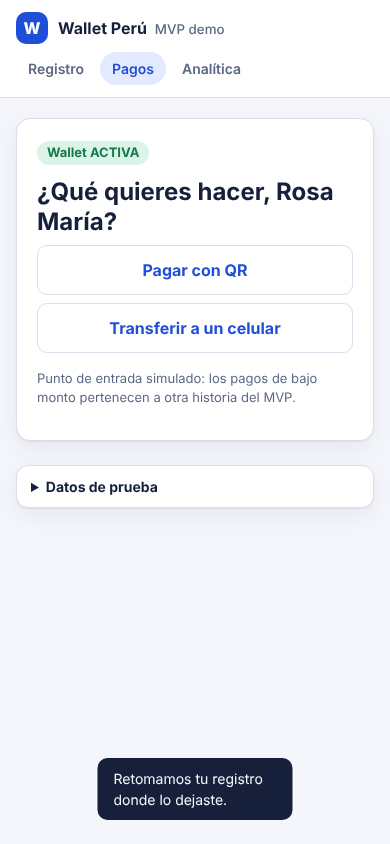
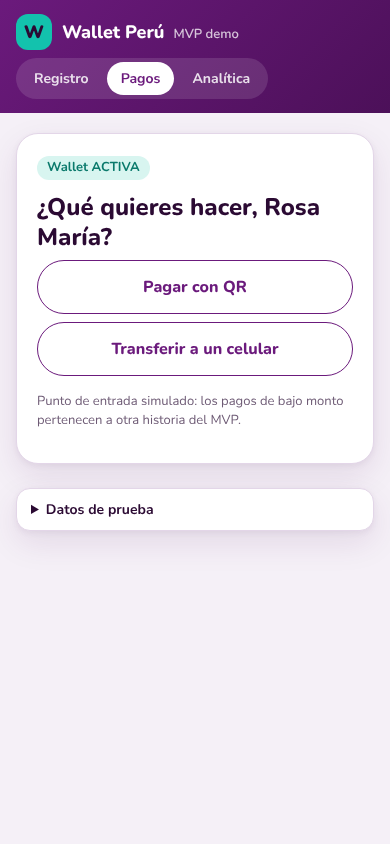
Estilo de billetera móvil morado y equipo en la pantalla inicial
Paleta morada con acento turquesa, cabecera con degradado, esquinas
redondeadas, botones tipo píldora y tipografía Nunito, en modo claro y
oscuro. La pantalla inicial muestra una portada y la tarjeta del equipo
con sus códigos; el README también lista al equipo. Capturas actualizadas.

Incluye .error-campo[hidden] { display: none } (el mismo cambio de #55)
para que la nueva pantalla no muestre iconos de error vacíos.

Claude-Session: https://claude.ai/code/session_01Lq79jjTiTKoQJiYycj9tza

diff --git a/frontend/styles.css b/frontend/styles.css
@@ -1,37 +1,51 @@
 :root {
-  --bg: #f4f6fb;
+  /* Estilo de billetera móvil peruana: morado intenso, acento turquesa y esquinas redondeadas. */
+  --brand: #6b1a7c;
+  --brand-strong: #4c1059;
+  --brand-ink: #ffffff;
+  --accent: #13c2ad;
+  --accent-strong: #0ea896;
+  --accent-ink: #2b0a33;
+  --bg: #f5f0f7;
   --surface: #ffffff;
-  --surface-2: #eef1f8;
-  --text: #16203a;
-  --muted: #5b6784;
-  --border: #d9deea;
-  --primary: #1f4fd8;
-  --primary-ink: #ffffff;
-  --primary-soft: #e3eaff;
-  --ok: #137a4b;
-  --ok-soft: #dcf3e7;
+  --surface-2: #efe6f2;
+  --text: #2b0a33;
+  --muted: #6e5b75;
+  --border: #e3d6e8;
+  --primary: var(--brand);
+  --primary-ink: var(--brand-ink);
+  --primary-soft: #f1e3f5;
+  --ok: #0b7a6c;
+  --ok-soft: #d8f5f0;
   --warn: #9a5b00;
   --warn-soft: #fff1d6;
   --error: #b42318;
   --error-soft: #fde7e5;
-  --radius: 14px;
-  --shadow: 0 1px 2px rgba(16, 24, 40, .06), 0 8px 24px rgba(16, 24, 40, .06);
+  --radius: 22px;
+  --radius-sm: 14px;
+  --shadow: 0 2px 6px rgba(75, 16, 89, .06), 0 12px 32px rgba(75, 16, 89, .10);
   color-scheme: light;
 }
 
 @media (prefers-color-scheme: dark) {
   :root:not([data-theme="light"]) {
-    --bg: #0e1424;
-    --surface: #161e33;
-    --surface-2: #1d2740;
-    --text: #e8ecf6;
-    --muted: #9aa6c3;
-    --border: #2b3654;
-    --primary: #7d9cff;
-    --primary-ink: #0b1020;
-    --primary-soft: #23315c;
-    --ok: #5fd39a;
-    --ok-soft: #133826;
+    --brand: #4a1257;
+    --brand-strong: #320b3c;
+    --brand-ink: #ffffff;
+    --accent: #2fe0c9;
+    --accent-strong: #22c7b2;
+    --accent-ink: #1a0620;
+    --bg: #1a0d20;
+    --surface: #26152e;
+    --surface-2: #321d3b;
+    --text: #f5ecf8;
+    --muted: #bba7c4;
+    --border: #43294e;
+    --primary: #d39be3;
+    --primary-ink: #1a0620;
+    --primary-soft: #3d2149;
+    --ok: #5fe0c9;
+    --ok-soft: #123a35;
     --warn: #f3b64b;
     --warn-soft: #3a2a0c;
     --error: #ff8a80;
@@ -47,26 +61,27 @@ body {
   margin: 0;
   background: var(--bg);
   color: var(--text);
-  font: 16px/1.5 system-ui, -apple-system, "Segoe UI", Roboto, sans-serif;
+  font: 16px/1.5 "Nunito", system-ui, -apple-system, "Segoe UI", Roboto, sans-serif;
 }
 
 a { color: var(--primary); }
 
 .topbar {
   display: flex; flex-wrap: wrap; gap: 8px 16px; align-items: center; justify-content: space-between;
-  padding: 12px 16px; background: var(--surface); border-bottom: 1px solid var(--border);
+  padding: 14px 16px; background: linear-gradient(135deg, var(--brand) 0%, var(--brand-strong) 100%);
+  color: var(--brand-ink);
 }
-.brand { display: flex; align-items: center; gap: 10px; color: var(--text); text-decoration: none; font-weight: 700; }
-.brand small { font-weight: 500; color: var(--muted); margin-left: 4px; }
+.brand { display: flex; align-items: center; gap: 10px; color: var(--brand-ink); text-decoration: none; font-weight: 800; font-size: 18px; }
+.brand small { font-weight: 600; color: rgba(255, 255, 255, .75); margin-left: 4px; font-size: 13px; }
 .brand-mark {
-  display: grid; place-items: center; width: 32px; height: 32px; border-radius: 10px;
-  background: var(--primary); color: var(--primary-ink); font-weight: 800;
+  display: grid; place-items: center; width: 36px; height: 36px; border-radius: 12px;
+  background: var(--accent); color: var(--accent-ink); font-weight: 900;
 }
-.topbar nav { display: flex; gap: 4px; }
+.topbar nav { display: flex; gap: 4px; background: rgba(255, 255, 255, .12); padding: 4px; border-radius: 999px; }
 .topbar nav a {
-  padding: 6px 12px; border-radius: 999px; text-decoration: none; color: var(--muted); font-weight: 600; font-size: 14px;
+  padding: 6px 14px; border-radius: 999px; text-decoration: none; color: rgba(255, 255, 255, .85); font-weight: 700; font-size: 14px;
 }
-.topbar nav a[aria-current="page"] { background: var(--primary-soft); color: var(--primary); }
+.topbar nav a[aria-current="page"] { background: #ffffff; color: var(--brand); }
 
 main { max-width: 480px; margin: 0 auto; padding: 20px 16px 24px; outline: none; }
 main.ancho { max-width: 1040px; }
@@ -77,7 +92,7 @@ main.ancho { max-width: 1040px; }
 }
 .card + .card { margin-top: 16px; }
 
-h1 { font-size: 24px; line-height: 1.25; margin: 0 0 8px; }
+h1 { font-size: 24px; line-height: 1.25; margin: 0 0 8px; font-weight: 800; }
 h2 { font-size: 18px; margin: 0 0 12px; }
 p { margin: 0 0 12px; }
 .muted { color: var(--muted); }
@@ -88,7 +103,7 @@ p { margin: 0 0 12px; }
 .progreso-cabecera { display: flex; justify-content: space-between; align-items: baseline; gap: 8px; font-size: 14px; }
 .progreso-cabecera strong { font-size: 15px; }
 .barra { height: 8px; background: var(--surface-2); border-radius: 999px; overflow: hidden; margin: 8px 0 12px; }
-.barra > span { display: block; height: 100%; background: var(--primary); border-radius: inherit; transition: width .3s ease; }
+.barra > span { display: block; height: 100%; background: var(--accent); border-radius: inherit; transition: width .3s ease; }
 .pasos { list-style: none; padding: 0; margin: 0; display: grid; grid-template-columns: repeat(5, 1fr); gap: 6px; }
 .pasos li { font-size: 11px; line-height: 1.3; color: var(--muted); text-align: center; }
 .pasos li::before {
@@ -96,7 +111,7 @@ p { margin: 0 0 12px; }
   width: 26px; height: 26px; border-radius: 50%; border: 2px solid var(--border);
   font-weight: 700; font-size: 12px; background: var(--surface);
 }
-.pasos li[data-estado="COMPLETADO"]::before { content: "✓"; background: var(--ok); border-color: var(--ok); color: #fff; }
+.pasos li[data-estado="COMPLETADO"]::before { content: "✓"; background: var(--accent); border-color: var(--accent); color: var(--accent-ink); }
 .pasos li[data-estado="ACTUAL"] { color: var(--text); font-weight: 700; }
 .pasos li[data-estado="ACTUAL"]::before { border-color: var(--primary); color: var(--primary); }
 .pasos li[data-estado="FALLIDO"]::before { content: "!"; background: var(--error); border-color: var(--error); color: #fff; }
@@ -106,32 +121,35 @@ p { margin: 0 0 12px; }
 .campo label { display: block; font-weight: 600; margin-bottom: 6px; }
 .campo .ayuda { font-size: 13px; color: var(--muted); margin-top: 4px; }
 input[type="text"], input[type="tel"], input[type="date"], input[type="password"], select {
-  width: 100%; padding: 12px 14px; font: inherit; color: var(--text); background: var(--surface);
-  border: 1.5px solid var(--border); border-radius: 10px;
+  width: 100%; padding: 13px 16px; font: inherit; color: var(--text); background: var(--surface);
+  border: 1.5px solid var(--border); border-radius: var(--radius-sm);
 }
 input:focus-visible, select:focus-visible, button:focus-visible { outline: 3px solid var(--primary-soft); border-color: var(--primary); }
 .campo.con-error input, .campo.con-error select { border-color: var(--error); }
 .error-campo { color: var(--error); font-size: 14px; margin-top: 6px; display: flex; gap: 6px; }
 .error-campo::before { content: "⚠"; }
-.check { display: flex; gap: 10px; align-items: flex-start; padding: 12px; border: 1.5px solid var(--border); border-radius: 10px; }
-.check input { width: 20px; height: 20px; margin-top: 2px; flex: none; }
+.error-campo[hidden] { display: none; }
+.check { display: flex; gap: 10px; align-items: flex-start; padding: 12px; border: 1.5px solid var(--border); border-radius: var(--radius-sm); }
+.check input { width: 20px; height: 20px; margin-top: 2px; flex: none; accent-color: var(--brand); }
 .campo.con-error .check { border-color: var(--error); }
 .fila { display: flex; gap: 8px; }
 .fila > * { flex: 1; }
 
-.alerta { padding: 12px 14px; border-radius: 10px; font-size: 14px; margin-bottom: 16px; }
+.alerta { padding: 12px 14px; border-radius: var(--radius-sm); font-size: 14px; margin-bottom: 16px; }
 .alerta-error { background: var(--error-soft); color: var(--error); }
 .alerta-info { background: var(--primary-soft); color: var(--text); }
 .alerta-ok { background: var(--ok-soft); color: var(--ok); }
 
 .btn {
   display: inline-flex; justify-content: center; align-items: center; gap: 8px;
-  padding: 12px 18px; font: inherit; font-weight: 700; border-radius: 10px; border: 1.5px solid transparent; cursor: pointer;
-  text-decoration: none;
+  padding: 14px 20px; font: inherit; font-weight: 800; border-radius: 999px; border: 1.5px solid transparent; cursor: pointer;
+  text-decoration: none; transition: background .15s ease, transform .1s ease;
 }
-.btn-primario { background: var(--primary); color: var(--primary-ink); width: 100%; }
+.btn:active { transform: scale(.98); }
+.btn-primario { background: var(--accent); color: var(--accent-ink); width: 100%; font-size: 17px; }
+.btn-primario:hover { background: var(--accent-strong); }
 .btn-primario[disabled] { opacity: .6; cursor: progress; }
-.btn-secundario { background: var(--surface); color: var(--primary); border-color: var(--border); }
+.btn-secundario { background: var(--surface); color: var(--primary); border-color: var(--primary); }
 .btn-ghost { background: transparent; color: var(--muted); padding: 8px 10px; font-weight: 600; }
 .acciones { display: flex; flex-direction: column; gap: 8px; margin-top: 8px; }
 
@@ -158,7 +176,7 @@ th { color: var(--muted); font-weight: 600; font-size: 13px; }
 .embudo { display: grid; gap: 8px; }
 .embudo-fila { display: grid; grid-template-columns: 150px 1fr 60px; gap: 8px; align-items: center; font-size: 14px; }
 .embudo-barra { height: 14px; background: var(--surface-2); border-radius: 4px; overflow: hidden; }
-.embudo-barra > span { display: block; height: 100%; background: var(--primary); border-radius: 4px; }
+.embudo-barra > span { display: block; height: 100%; background: var(--accent); border-radius: 4px; }
 .grid-2 { display: grid; grid-template-columns: repeat(auto-fit, minmax(320px, 1fr)); gap: 16px; }
 .grid-2 .card + .card { margin-top: 0; }
 .eventos { list-style: none; padding: 0; margin: 0; font-size: 13px; max-height: 320px; overflow: auto; }
@@ -170,7 +188,7 @@ th { color: var(--muted); font-weight: 600; font-size: 13px; }
 /* ── Panel demo y toast ───────────────────────────── */
 .demo-panel {
   max-width: 448px; margin: 0 auto 32px;
-  background: var(--surface); border: 1px solid var(--border); border-radius: 12px; box-shadow: var(--shadow);
+  background: var(--surface); border: 1px solid var(--border); border-radius: var(--radius-sm); box-shadow: var(--shadow);
   padding: 10px 14px; font-size: 14px;
 }
 .demo-panel summary { cursor: pointer; font-weight: 700; }
@@ -185,3 +203,24 @@ th { color: var(--muted); font-weight: 600; font-size: 13px; }
   .embudo-fila { grid-template-columns: 110px 1fr 48px; }
   .demo-panel { margin: 0 16px 32px; }
 }
+
+/* ── Bienvenida: portada y equipo ────────────────── */
+.portada {
+  background: linear-gradient(160deg, var(--brand) 0%, var(--brand-strong) 100%);
+  color: var(--brand-ink); border-radius: var(--radius); padding: 28px 22px; margin-bottom: 16px;
+  box-shadow: var(--shadow); position: relative; overflow: hidden;
+}
+.portada::after {
+  content: ""; position: absolute; width: 150px; height: 150px; right: -55px; bottom: -75px;
+  border-radius: 50%; background: var(--accent); opacity: .35; z-index: 0;
+}
+.portada h1 { font-size: 28px; position: relative; z-index: 1; padding-right: 8px; }
+.portada p { color: rgba(255, 255, 255, .85); position: relative; z-index: 1; margin: 0; }
+.equipo ul { list-style: none; padding: 0; margin: 0; display: grid; gap: 10px; }
+.equipo li { display: flex; align-items: center; gap: 12px; }
+.avatar {
+  flex: none; display: grid; place-items: center; width: 40px; height: 40px; border-radius: 50%;
+  background: var(--primary-soft); color: var(--primary); font-weight: 800; font-size: 14px;
+}
+.equipo .nombre { font-weight: 700; }
+.equipo .codigo { color: var(--muted); font-size: 13px; font-variant-numeric: tabular-nums; }

diff --git a/frontend/app.js b/frontend/app.js
@@ -148,11 +148,38 @@ function iniciarCronometro(ob) {
   if (!fin) cronometro = setInterval(pintar, 1000);
 }
 
+const EQUIPO = [
+  ["Frank Laura", "T64645"],
+  ["Hernán Chau", "U20223"],
+  ["César Valdiviezo", "T14495"],
+  ["Raúl Aguirre", "T27136"],
+  ["Freddy Liendo", "T14972"],
+  ["Sebastian Barrios", "T51306"],
+];
+
+const iniciales = (nombre) => nombre.split(/\s+/).map((p) => p[0]).slice(0, 2).join("").toUpperCase();
+
+function tarjetaEquipo() {
+  return `
+    <section class="card equipo" aria-labelledby="titulo-equipo">
+      <h2 id="titulo-equipo">Equipo</h2>
+      <ul>
+        ${EQUIPO.map(([nombre, codigo]) => `
+          <li>
+            <span class="avatar" aria-hidden="true">${esc(iniciales(nombre))}</span>
+            <span><span class="nombre">${esc(nombre)}</span><br><span class="codigo">${esc(codigo)}</span></span>
+          </li>`).join("")}
+      </ul>
+    </section>`;
+}
+
 function vistaBienvenida(error) {
   $app.innerHTML = `
-    <div class="card">
+    <section class="portada">
       <h1>Abre tu wallet en 3 minutos</h1>
-      <p class="muted">Paga con QR y envía dinero a cualquier celular. Solo necesitas tu DNI y tu celular.</p>
+      <p>Paga con QR y envía dinero a cualquier celular. Solo necesitas tu DNI y tu celular.</p>
+    </section>
+    <div class="card">
       ${error ? `<div class="alerta alerta-error">${esc(error)}</div>` : ""}
       <form id="form-inicio" novalidate>
         <div class="campo">
@@ -171,7 +198,8 @@ function vistaBienvenida(error) {
         </ol>
         <button class="btn btn-primario" type="submit">Empezar</button>
       </form>
-    </div>`;
+    </div>
+    ${tarjetaEquipo()}`;
   document.getElementById("form-inicio").addEventListener("submit", async (e) => {
     e.preventDefault();
     const boton = e.target.querySelector("button");

diff --git a/frontend/index.html b/frontend/index.html
@@ -5,6 +5,9 @@
   <meta name="viewport" content="width=device-width, initial-scale=1">
   <title>Wallet Perú · Registro</title>
   <meta name="description" content="MVP de registro y activación de wallet (demo con datos ficticios)">
+  <link rel="preconnect" href="https://fonts.googleapis.com">
+  <link rel="preconnect" href="https://fonts.gstatic.com" crossorigin>
+  <link rel="stylesheet" href="https://fonts.googleapis.com/css2?family=Nunito:wght@400;600;700;800;900&display=swap">
   <link rel="stylesheet" href="styles.css">
 </head>
 <body>

diff --git a/README.md b/README.md
@@ -6,6 +6,17 @@ Demo de la hackatón del Día 5. Implementa la historia de usuario **"Registro y
 > quiero completar el onboarding de la wallet con un flujo guiado y señales claras de siguiente paso,
 > para poder empezar a pagar sin abandonar el proceso.
 
+## Equipo
+
+| Integrante | Código |
+|---|---|
+| Frank Laura | T64645 |
+| Hernán Chau | U20223 |
+| César Valdiviezo | T14495 |
+| Raúl Aguirre | T27136 |
+| Freddy Liendo | T14972 |
+| Sebastian Barrios | T51306 |
+
 | Registro guiado | Error accionable | Wallet activa | Analítica |
 |---|---|---|---|
 | ![Bienvenida](docs/capturas/01-bienvenida.png) | ![Error de DNI](docs/capturas/02-error-dni.png) | ![Wallet activa](docs/capturas/05-activa.png) | ![Analítica](docs/capturas/07-analitica.png) |
